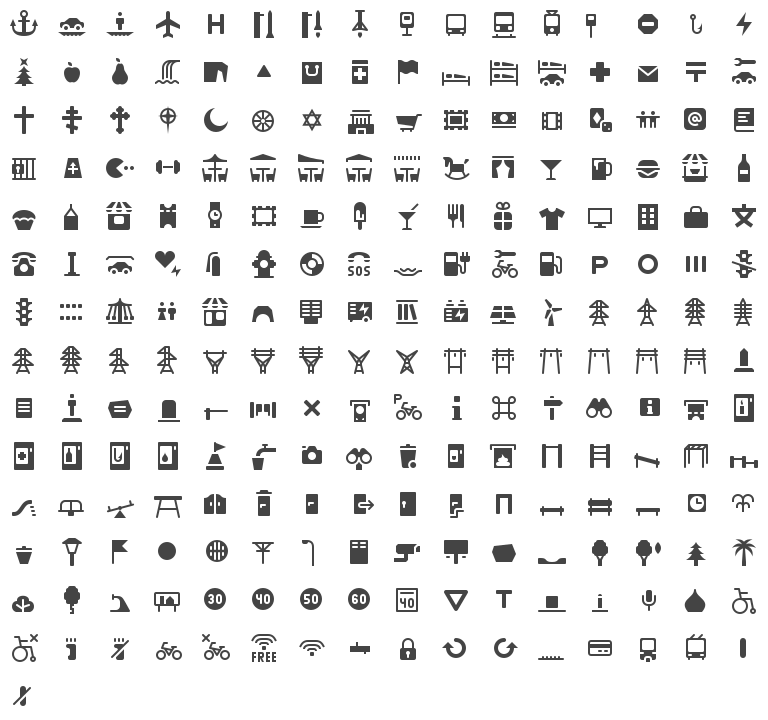
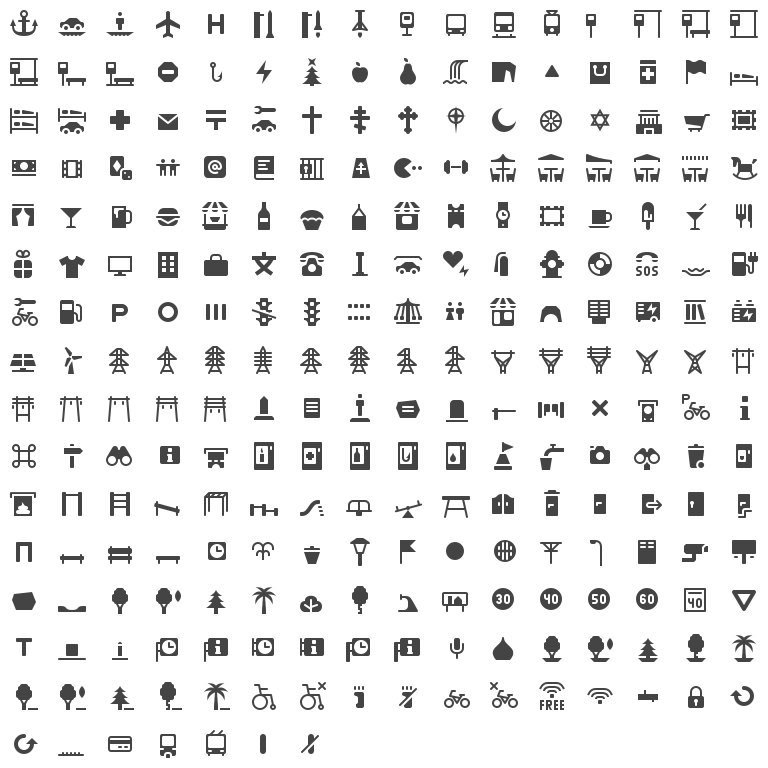
Fix grid generation.
Fix creation combined icons.

diff --git a/roentgen/grid.py b/roentgen/grid.py
@@ -38,42 +38,42 @@ def draw_all_icons(
     icons_file_name: str = "icons/icons.svg"
     extractor: ShapeExtractor = ShapeExtractor(icons_file_name)
 
+    def add():
+        specifications = [
+            ShapeSpecification.from_structure(x, extractor, scheme)
+            for x in current_set
+        ]
+        icon: Icon = Icon(specifications)
+        icon.recolor(Color("#444444"), exclude=Color("white"))
+        if icon not in icons:
+            icons.append(icon)
+
     for element in scheme.icons:  # type: Dict[str, Any]
         for key in ["icon", "add_icon"]:
             if key in element:
-                specifications = [
-                    ShapeSpecification.from_structure(x, extractor, scheme)
-                    for x in element[key]
-                ]
-                icon: Icon = Icon(specifications)
-                icon.recolor(Color("#444444"), exclude=Color("white"))
-                if icon not in icons:
-                    icons.append(icon)
-        continue
+                current_set = element[key]
+                add()
         if "over_icon" not in element:
             continue
         if "under_icon" in element:
             for icon_id in element["under_icon"]:  # type: str
                 current_set = set([icon_id] + element["over_icon"])
-                if current_set not in icons:
-                    icons.append(current_set)
+                add()
         if not ("under_icon" in element and "with_icon" in element):
             continue
         for icon_id in element["under_icon"]:  # type: str
             for icon_2_id in element["with_icon"]:  # type: str
                 current_set: Set[str] = set(
                     [icon_id] + [icon_2_id] + element["over_icon"])
-                if current_set not in icons:
-                    icons.append(current_set)
+                add()
             for icon_2_id in element["with_icon"]:  # type: str
                 for icon_3_id in element["with_icon"]:  # type: str
                     current_set = set(
                         [icon_id] + [icon_2_id] + [icon_3_id] +
                         element["over_icon"])
                     if (icon_2_id != icon_3_id and icon_2_id != icon_id and
-                            icon_3_id != icon_id and
-                            current_set not in icons):
-                        icons.append(current_set)
+                            icon_3_id != icon_id):
+                        add()
 
     specified_ids: Set[str] = set()
 
